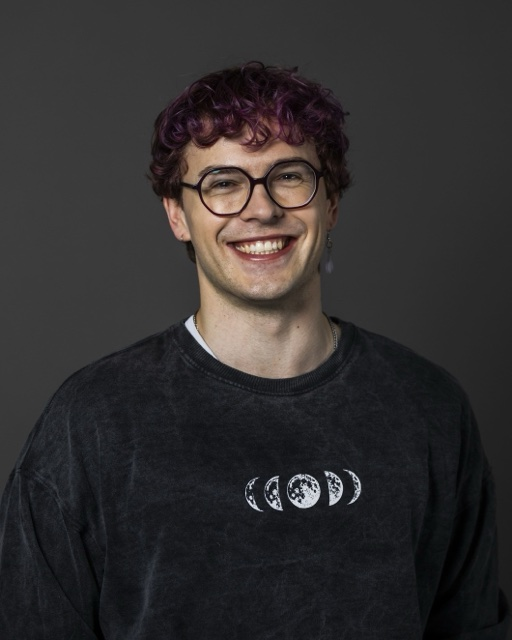
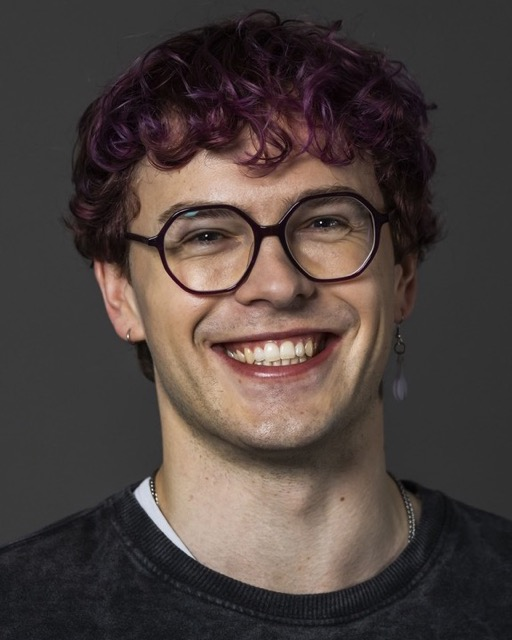
Add Stephan's photo, recrop team portraits so heads align
Claude-Session: https://claude.ai/code/session_01XYqh3fa1VFVb9fjNjyfm1c

diff --git a/index.html b/index.html
@@ -240,7 +240,7 @@
                     </a>
                     <a class="pcard" href="https://www.linkedin.com/in/stephan-olbrich/" target="_blank" rel="noopener noreferrer">
                         <span class="pcard-corner">S</span>
-                        <div class="pcard-photo placeholder"><span>SO</span></div>
+                        <div class="pcard-photo"><img src="assets/people/stephan.jpg" alt="Stephan Olbrich"></div>
                         <div class="pcard-name">Stephan Olbrich</div>
                         <div class="pcard-role">PhD Researcher</div>
                     </a>
